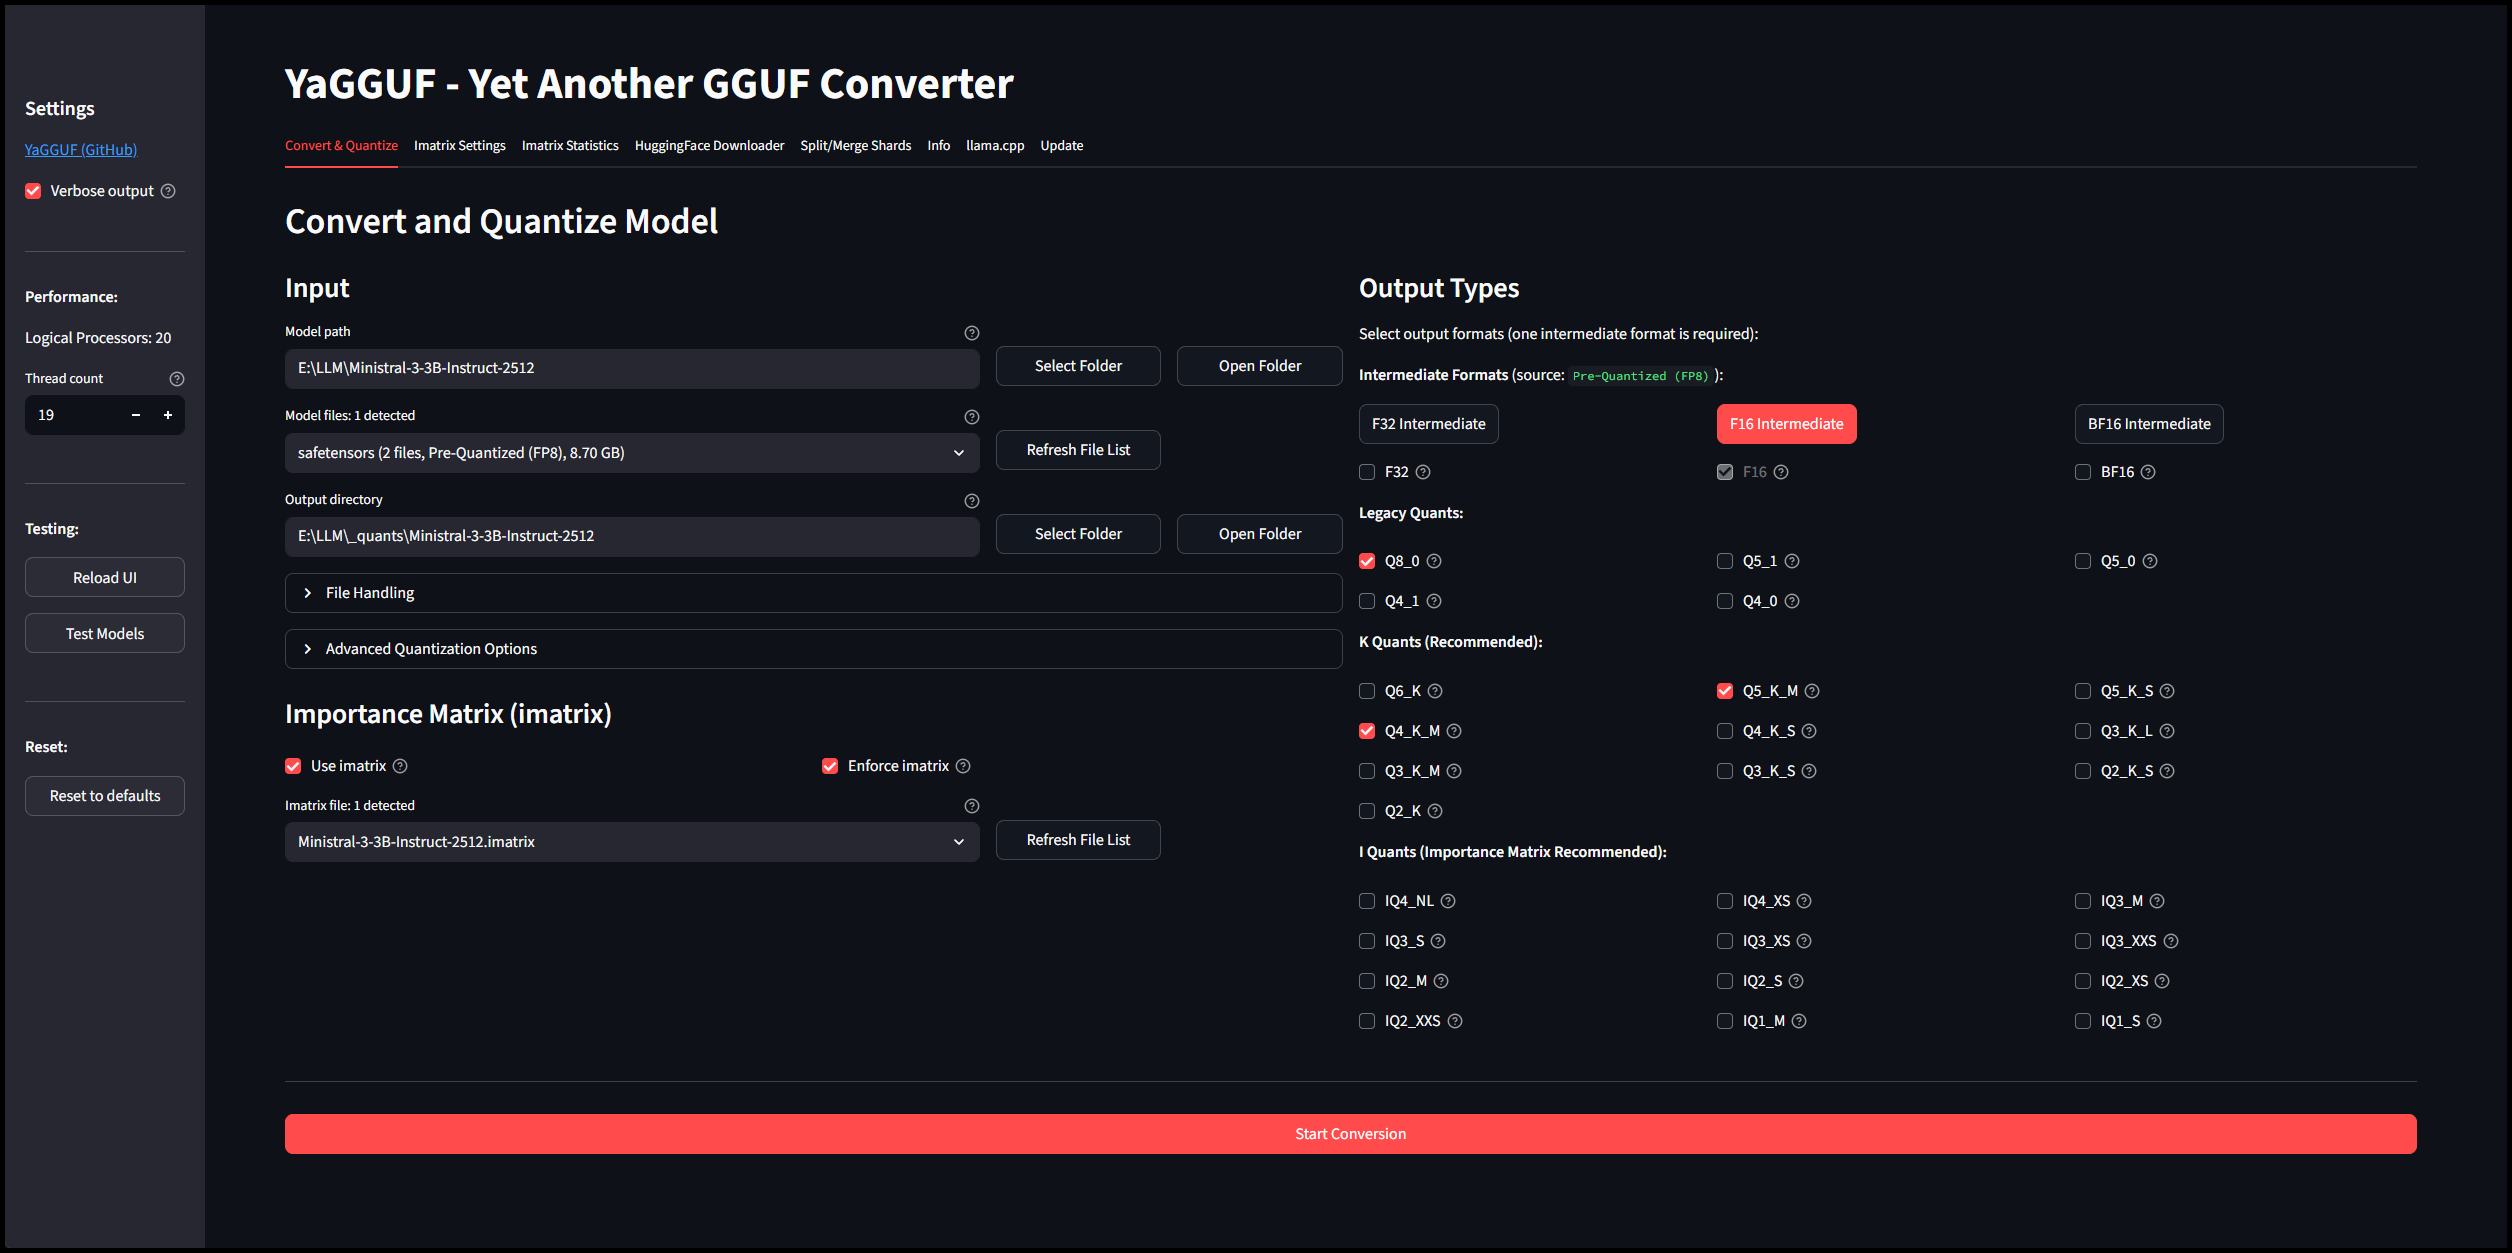
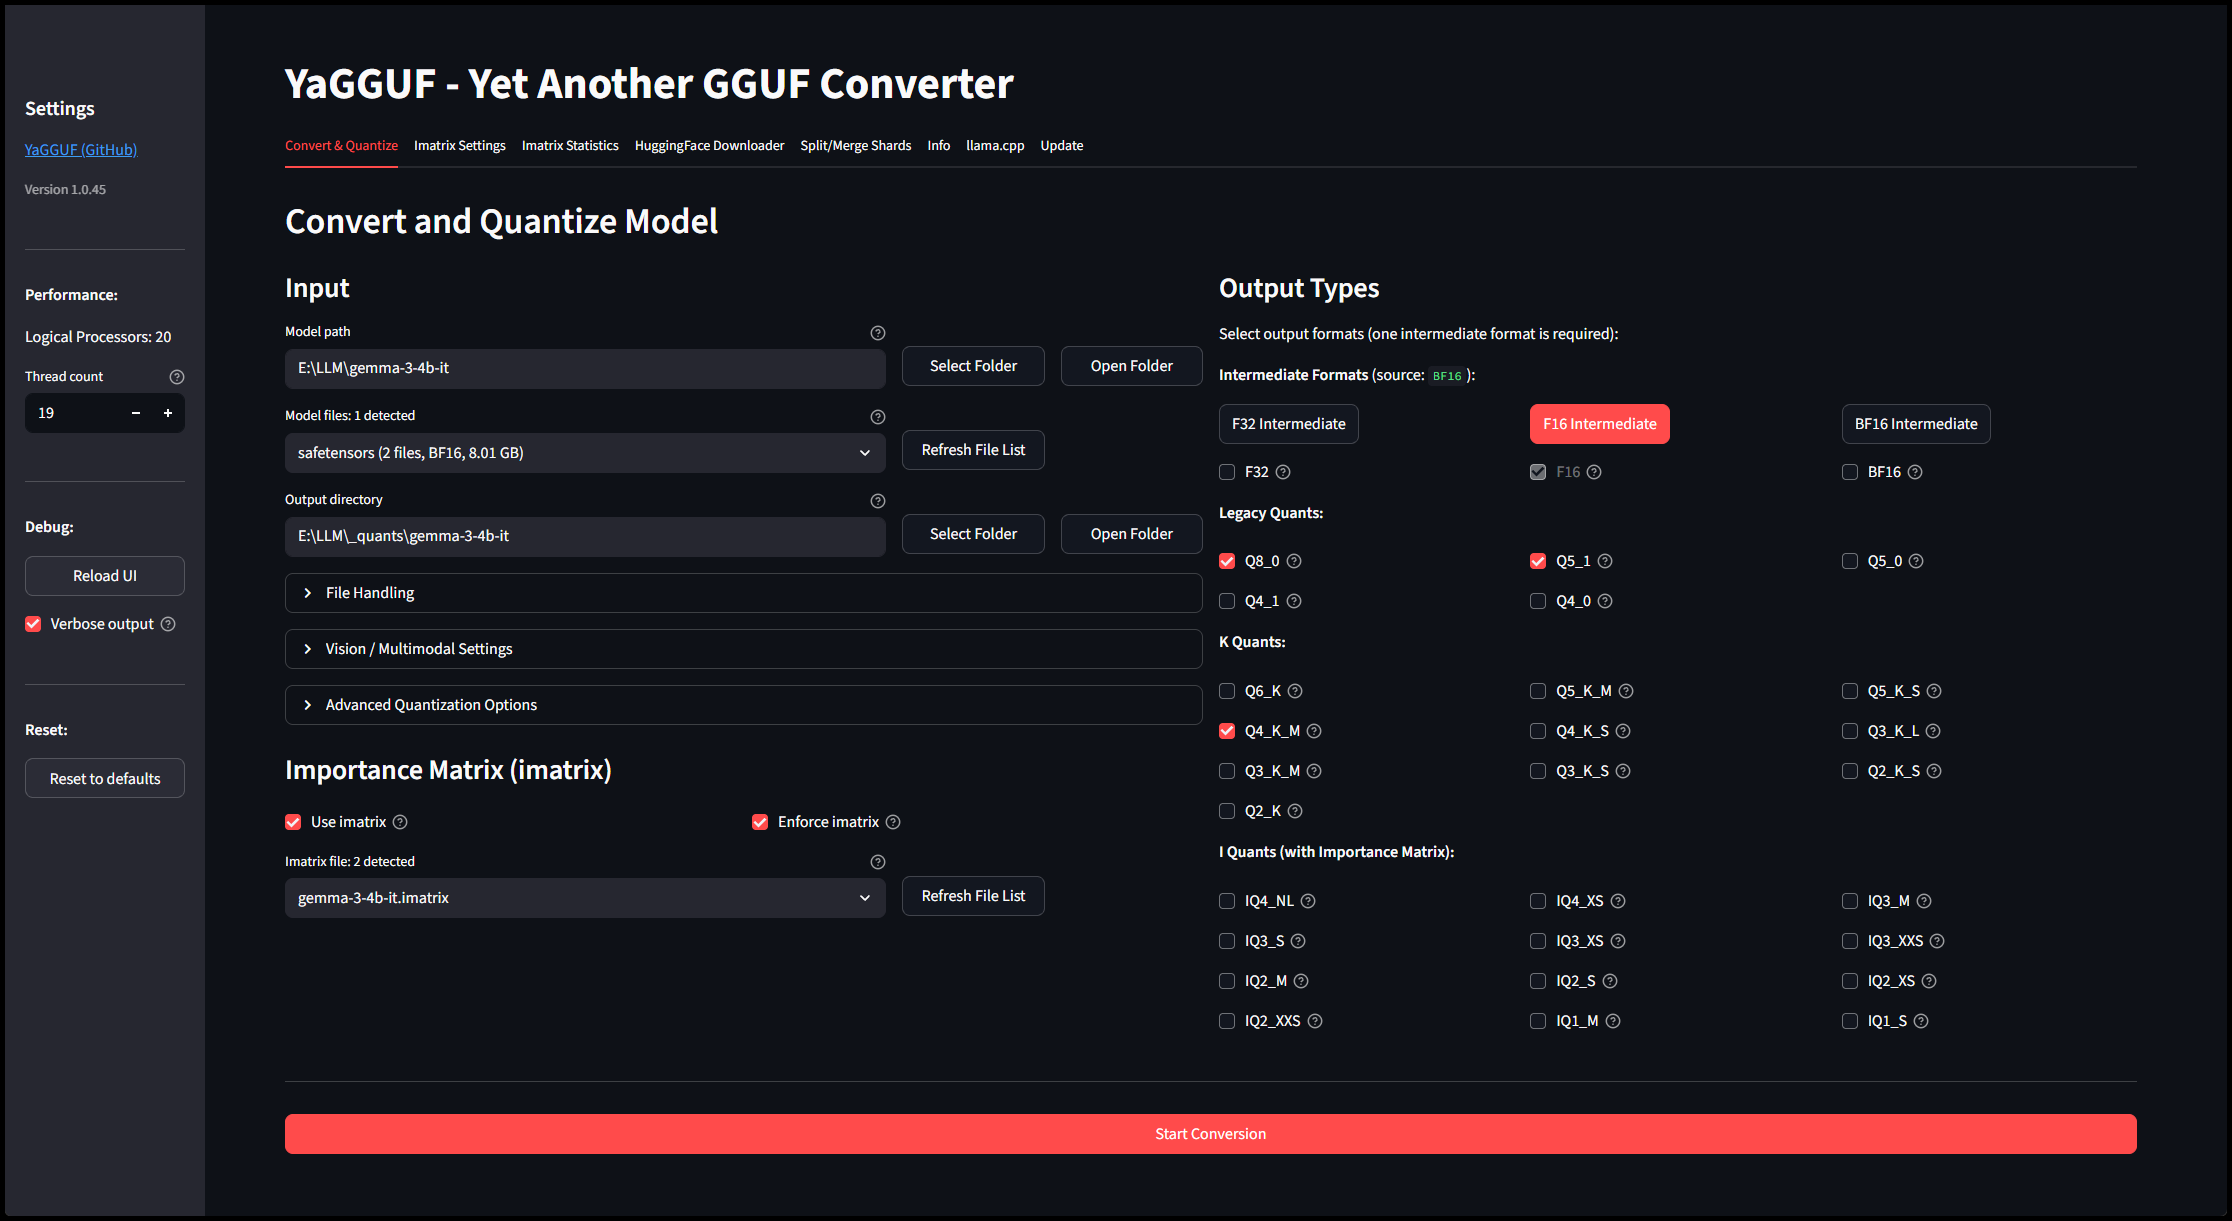
Developer options, minor text changes, screenshots

diff --git a/gguf_converter/gui_tabs/convert.py b/gguf_converter/gui_tabs/convert.py
@@ -420,7 +420,7 @@ def render_convert_tab(
 
             with options_col:
                 if file_mode == "Split files":
-                    st.markdown("**Split file options:**")
+                    st.markdown("Split file options:")
 
                     st.markdown("- Split files will always overwrite existing split intermediates and quants.")
 
@@ -452,7 +452,7 @@ def render_convert_tab(
                     overwrite_intermediates = True  # Always overwrite in split mode
                     overwrite_quants = True  # Always overwrite in split mode
                 else:
-                    st.markdown("**Single file options:**")
+                    st.markdown("Single file options:")
 
                     # Single file options - show overwrite checkboxes
                     max_shard_size_gb = 0  # Not used in single file mode
@@ -487,6 +487,47 @@ def render_convert_tab(
                     st.info("Intermediate will be generated as sharded files.\n\nQuantized outputs will maintain the same shard structure.")
                 elif file_mode == "Single files":
                     st.info("Intermediate will be a single file.\n\nQuantized outputs will then be a single file.")
+
+        # Vision / Multimodal settings
+        with st.expander("Vision / Multimodal Settings"):
+
+            mmproj_precision_options = ["F16 (recommended)", "F32", "BF16", "Q8_0"]
+
+            mmproj_col1, mmproj_col2 = st.columns(2)
+
+            with mmproj_col1:
+                def save_mmproj_precision():
+                    config["mmproj_precision"] = st.session_state.mmproj_precision_radio
+                    save_config(config)
+
+                # Default to F16 for compatibility
+                saved_mmproj_precision = config.get("mmproj_precision", "F16 (recommended)")
+
+                mmproj_precision = st.radio(
+                    "mmproj precision",
+                    options=mmproj_precision_options,
+                    index=mmproj_precision_options.index(saved_mmproj_precision) if saved_mmproj_precision in mmproj_precision_options else 0,
+                    horizontal=True,
+                    help="Precision for vision projector file. F16 recommended for best compatibility (BF16 has known CUDA issues). Only applies to vision/multimodal models.",
+                    key="mmproj_precision_radio",
+                    on_change=save_mmproj_precision
+                )
+
+            with mmproj_col2:
+                def save_overwrite_mmproj():
+                    config["overwrite_mmproj"] = st.session_state.overwrite_mmproj_checkbox
+                    save_config(config)
+
+                # Add spacing to align with radio buttons
+                st.markdown("File saving options:", unsafe_allow_html=True)
+
+                overwrite_mmproj = st.checkbox(
+                    "Overwrite mmproj",
+                    value=config.get("overwrite_mmproj", True),
+                    help="Regenerate the mmproj file even if it already exists. Uncheck to skip mmproj generation if the file is already present.",
+                    key="overwrite_mmproj_checkbox",
+                    on_change=save_overwrite_mmproj
+                )
 
         # Advanced quantization options
         with st.expander("Advanced Quantization Options"):
@@ -550,43 +591,6 @@ def render_convert_tab(
                 key="pure_quantization_checkbox",
                 on_change=make_config_saver(config, "pure_quantization", "pure_quantization_checkbox")
             )
-
-            st.markdown("---")
-
-            mmproj_precision_options = ["F16 (recommended)", "F32", "BF16", "Q8_0"]
-
-            mmproj_col1, mmproj_col2 = st.columns(2)
-
-            with mmproj_col1:
-                def save_mmproj_precision():
-                    config["mmproj_precision"] = st.session_state.mmproj_precision_radio
-                    save_config(config)
-
-                # Default to F16 for compatibility
-                saved_mmproj_precision = config.get("mmproj_precision", "F16 (recommended)")
-
-                mmproj_precision = st.radio(
-                    "Vision Model Settings: mmproj precision",
-                    options=mmproj_precision_options,
-                    index=mmproj_precision_options.index(saved_mmproj_precision) if saved_mmproj_precision in mmproj_precision_options else 0,
-                    horizontal=True,
-                    help="Precision for vision projector file. F16 recommended for best compatibility (BF16 has known CUDA issues). Only applies to vision/multimodal models.",
-                    key="mmproj_precision_radio",
-                    on_change=save_mmproj_precision
-                )
-
-            with mmproj_col2:
-                def save_overwrite_mmproj():
-                    config["overwrite_mmproj"] = st.session_state.overwrite_mmproj_checkbox
-                    save_config(config)
-
-                overwrite_mmproj = st.checkbox(
-                    "Overwrite mmproj",
-                    value=config.get("overwrite_mmproj", True),
-                    help="Regenerate the mmproj file even if it already exists. Uncheck to skip mmproj generation if the file is already present.",
-                    key="overwrite_mmproj_checkbox",
-                    on_change=save_overwrite_mmproj
-                )
 
         # Track intermediate format changes to restore checkbox states
         if 'previous_intermediate' not in st.session_state:

diff --git a/gguf_converter/gui_tabs/info.py b/gguf_converter/gui_tabs/info.py
@@ -5,7 +5,7 @@ Info tab for GGUF Converter GUI
 import streamlit as st
 from typing import Dict, Any, TYPE_CHECKING
 
-from ..gui_utils import CONFIG_FILE, HF_TOKEN_PATH
+from ..gui_utils import CONFIG_FILE, HF_TOKEN_PATH, save_config
 
 if TYPE_CHECKING:
     from ..converter import GGUFConverter
@@ -14,7 +14,7 @@ if TYPE_CHECKING:
 def render_info_tab(converter: "GGUFConverter", config: Dict[str, Any]) -> None:
     """Render the Info tab"""
     st.header("About")
-    st.markdown(f"""
+    st.markdown("""
     ### YaGGUF - Yet Another GGUF Converter
 
     A user-friendly GGUF converter that sits on top of llama.cpp.  
@@ -50,9 +50,7 @@ def render_info_tab(converter: "GGUFConverter", config: Dict[str, Any]) -> None:
 
     **Settings:**
     - Your settings are automatically saved as you change them
-    - Settings are stored in: `{CONFIG_FILE}`
     - Use "Reset to defaults" in the sidebar to restore default settings
-    - HuggingFace token stored in: `{HF_TOKEN_PATH}` (managed by huggingface_hub)
     
     **Quantization Types (via llama.cpp):**
 
@@ -95,5 +93,37 @@ def render_info_tab(converter: "GGUFConverter", config: Dict[str, Any]) -> None:
     - For smallest size use IQ3_M or IQ2_M with importance matrix
     
     Quantization is done by [llama.cpp](https://github.com/ggml-org/llama.cpp).
-
+                
+    ---
     """)
+
+    # Dev Options expander (constrained width)
+    col1, col2 = st.columns([1, 1])
+    with col1:
+        with st.expander("Dev Options"):
+
+            def save_dev_mode():
+                config["dev_mode"] = st.session_state.dev_mode_checkbox
+                save_config(config)
+
+            dev_mode = st.checkbox(
+                "Enable developer mode",
+                value=config.get("dev_mode", False),
+                help="Show developer tools in the sidebar",
+                key="dev_mode_checkbox",
+                on_change=save_dev_mode
+            )
+
+            st.markdown(f"""
+            Enables extra tools that are unsupported but might be useful for advanced users:
+            - **Test Models** - Test all GGUF variants in the output directory interactively with llama-server
+                - Launches a new terminal window, hit enter in the terminal to load the next model
+                - Custom binary with gpu enabled is recommended but not required
+            - **Dev Tests** - Run the full test suite (pytest) in a new terminal window
+                - First run of checksum test will "SKIP" because there's no checksum to compare against yet
+            ---
+            **Information:**
+            - Settings stored in: `{CONFIG_FILE}`
+            - HuggingFace token stored in: `{HF_TOKEN_PATH}` (managed by huggingface_hub)
+            """)
+

diff --git a/gguf_converter/imatrix_stats.py b/gguf_converter/imatrix_stats.py
@@ -343,7 +343,7 @@ def show_statistics(imatrix_path: str) -> bool:
         weighted_stats = {}
 
         # Print header
-        print(f"\n{theme['highlight']}Computing statistics for {imatrix_path} ({len(tstats)} tensors){Style.RESET_ALL}")
+        print(f"\n{theme['success']}Computing statistics for {imatrix_path} ({len(tstats)} tensors){Style.RESET_ALL}")
         print(f"\n{'Layer':>5}  {'Tensor':<20}  {'Σ(Act²)':>14}  {'Min':>10}  {'Max':>14}  {'μ':>10}  {'σ':>10}   {'%Active':>8}  {'N':>10}  {'Entropy':>12}  {'E(norm)':>8}  {'ZD':>11}  {'CosSim':>8}")
         print("=" * 171)
 
@@ -385,7 +385,7 @@ def show_statistics(imatrix_path: str) -> bool:
         # Print weighted averages per layer
         layers = [k for k in weighted_stats.keys() if k >= 0]
         if layers:
-            print(f"\n{theme['highlight']}Computing weighted average statistics per layer ({len(layers)} layers){Style.RESET_ALL}")
+            print(f"\n{theme['success']}Computing weighted average statistics per layer ({len(layers)} layers){Style.RESET_ALL}")
             print(f"\n{'Layer':>5}  {'μΣ(Act²)':>14}  {'μZD':>11}    {'μCosSim':>8}")
             print("=" * 52)
 

diff --git a/docs/README.md b/docs/README.md
@@ -3,6 +3,9 @@
 ## Convert & Quantize
 ![Convert and Quantize](convert_and_quantize.png)
 
+## Convert & Quantize Expanded Options
+![Convert and Quantize Expanded Options](convert_and_quantize_expanded.png)
+
 ## Quantize Existing Intermediates
 ![Quantize Existing Intermediates](quantize_existing_intermediate.png)
 
